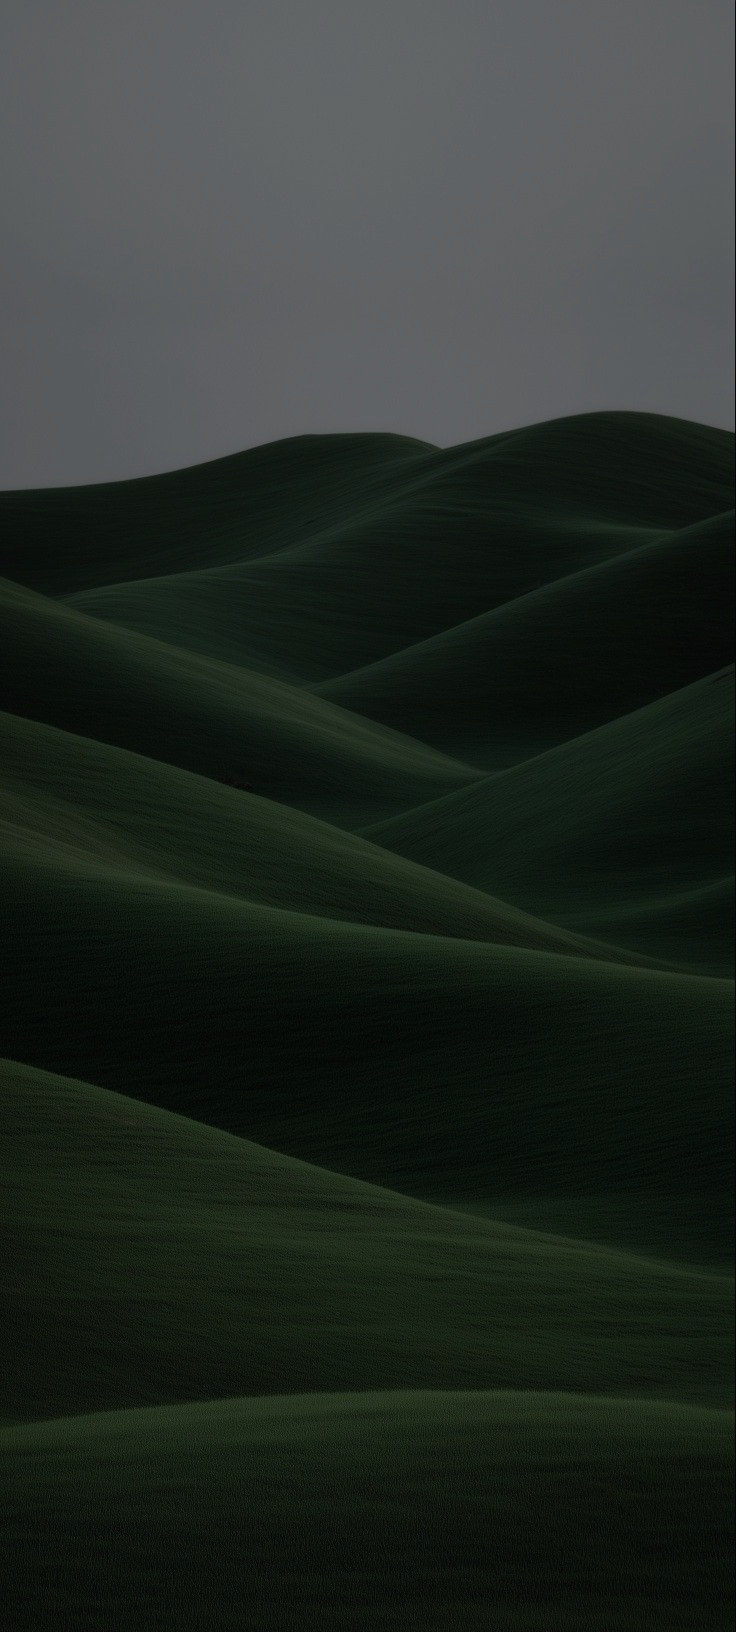
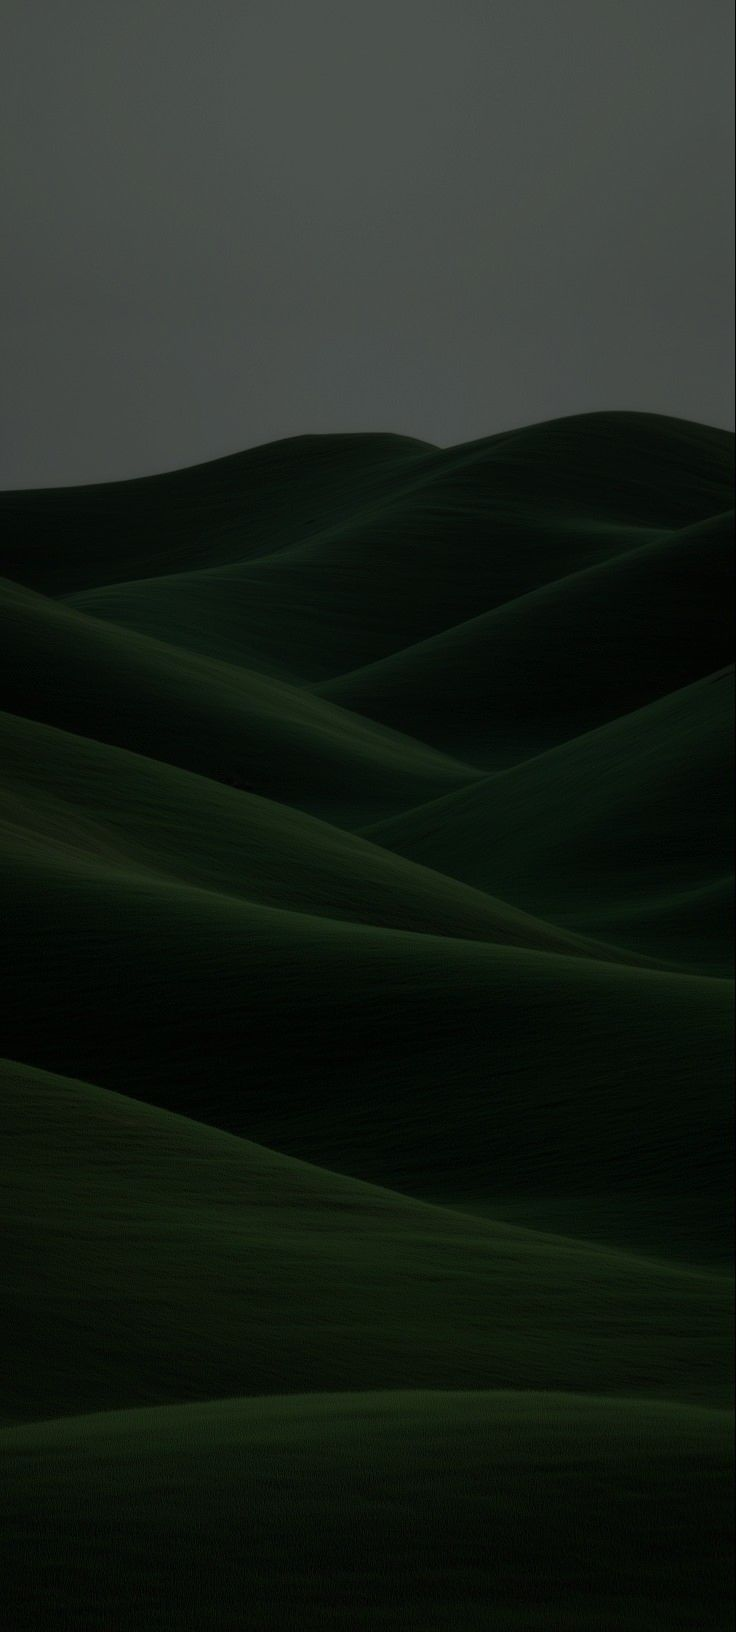
Give Sage's photograph a little more green and lay less of the page over it

Changed region(s): [[0.0, 0.0, 1.0, 0.3125]]

diff --git a/src/lib/styles.ts b/src/lib/styles.ts
@@ -914,7 +914,8 @@ export const STYLES: StyleDef[] = [
     nameNl: 'Salie',
     group: 'green',
     light: ['#d1e1d2', '#eff6ee', '#1B2A1B', '#54704e'],
-    photo: { scrim: 0.23, scrimNight: 0.02, glass: false },
+    /* The picture carries the green now, so less of the page is laid over it. */
+    photo: { scrim: 0.18, scrimNight: 0.02, glass: false },
     display: 'figtree',
     body: 'work',
     sub: 'newsreader',
